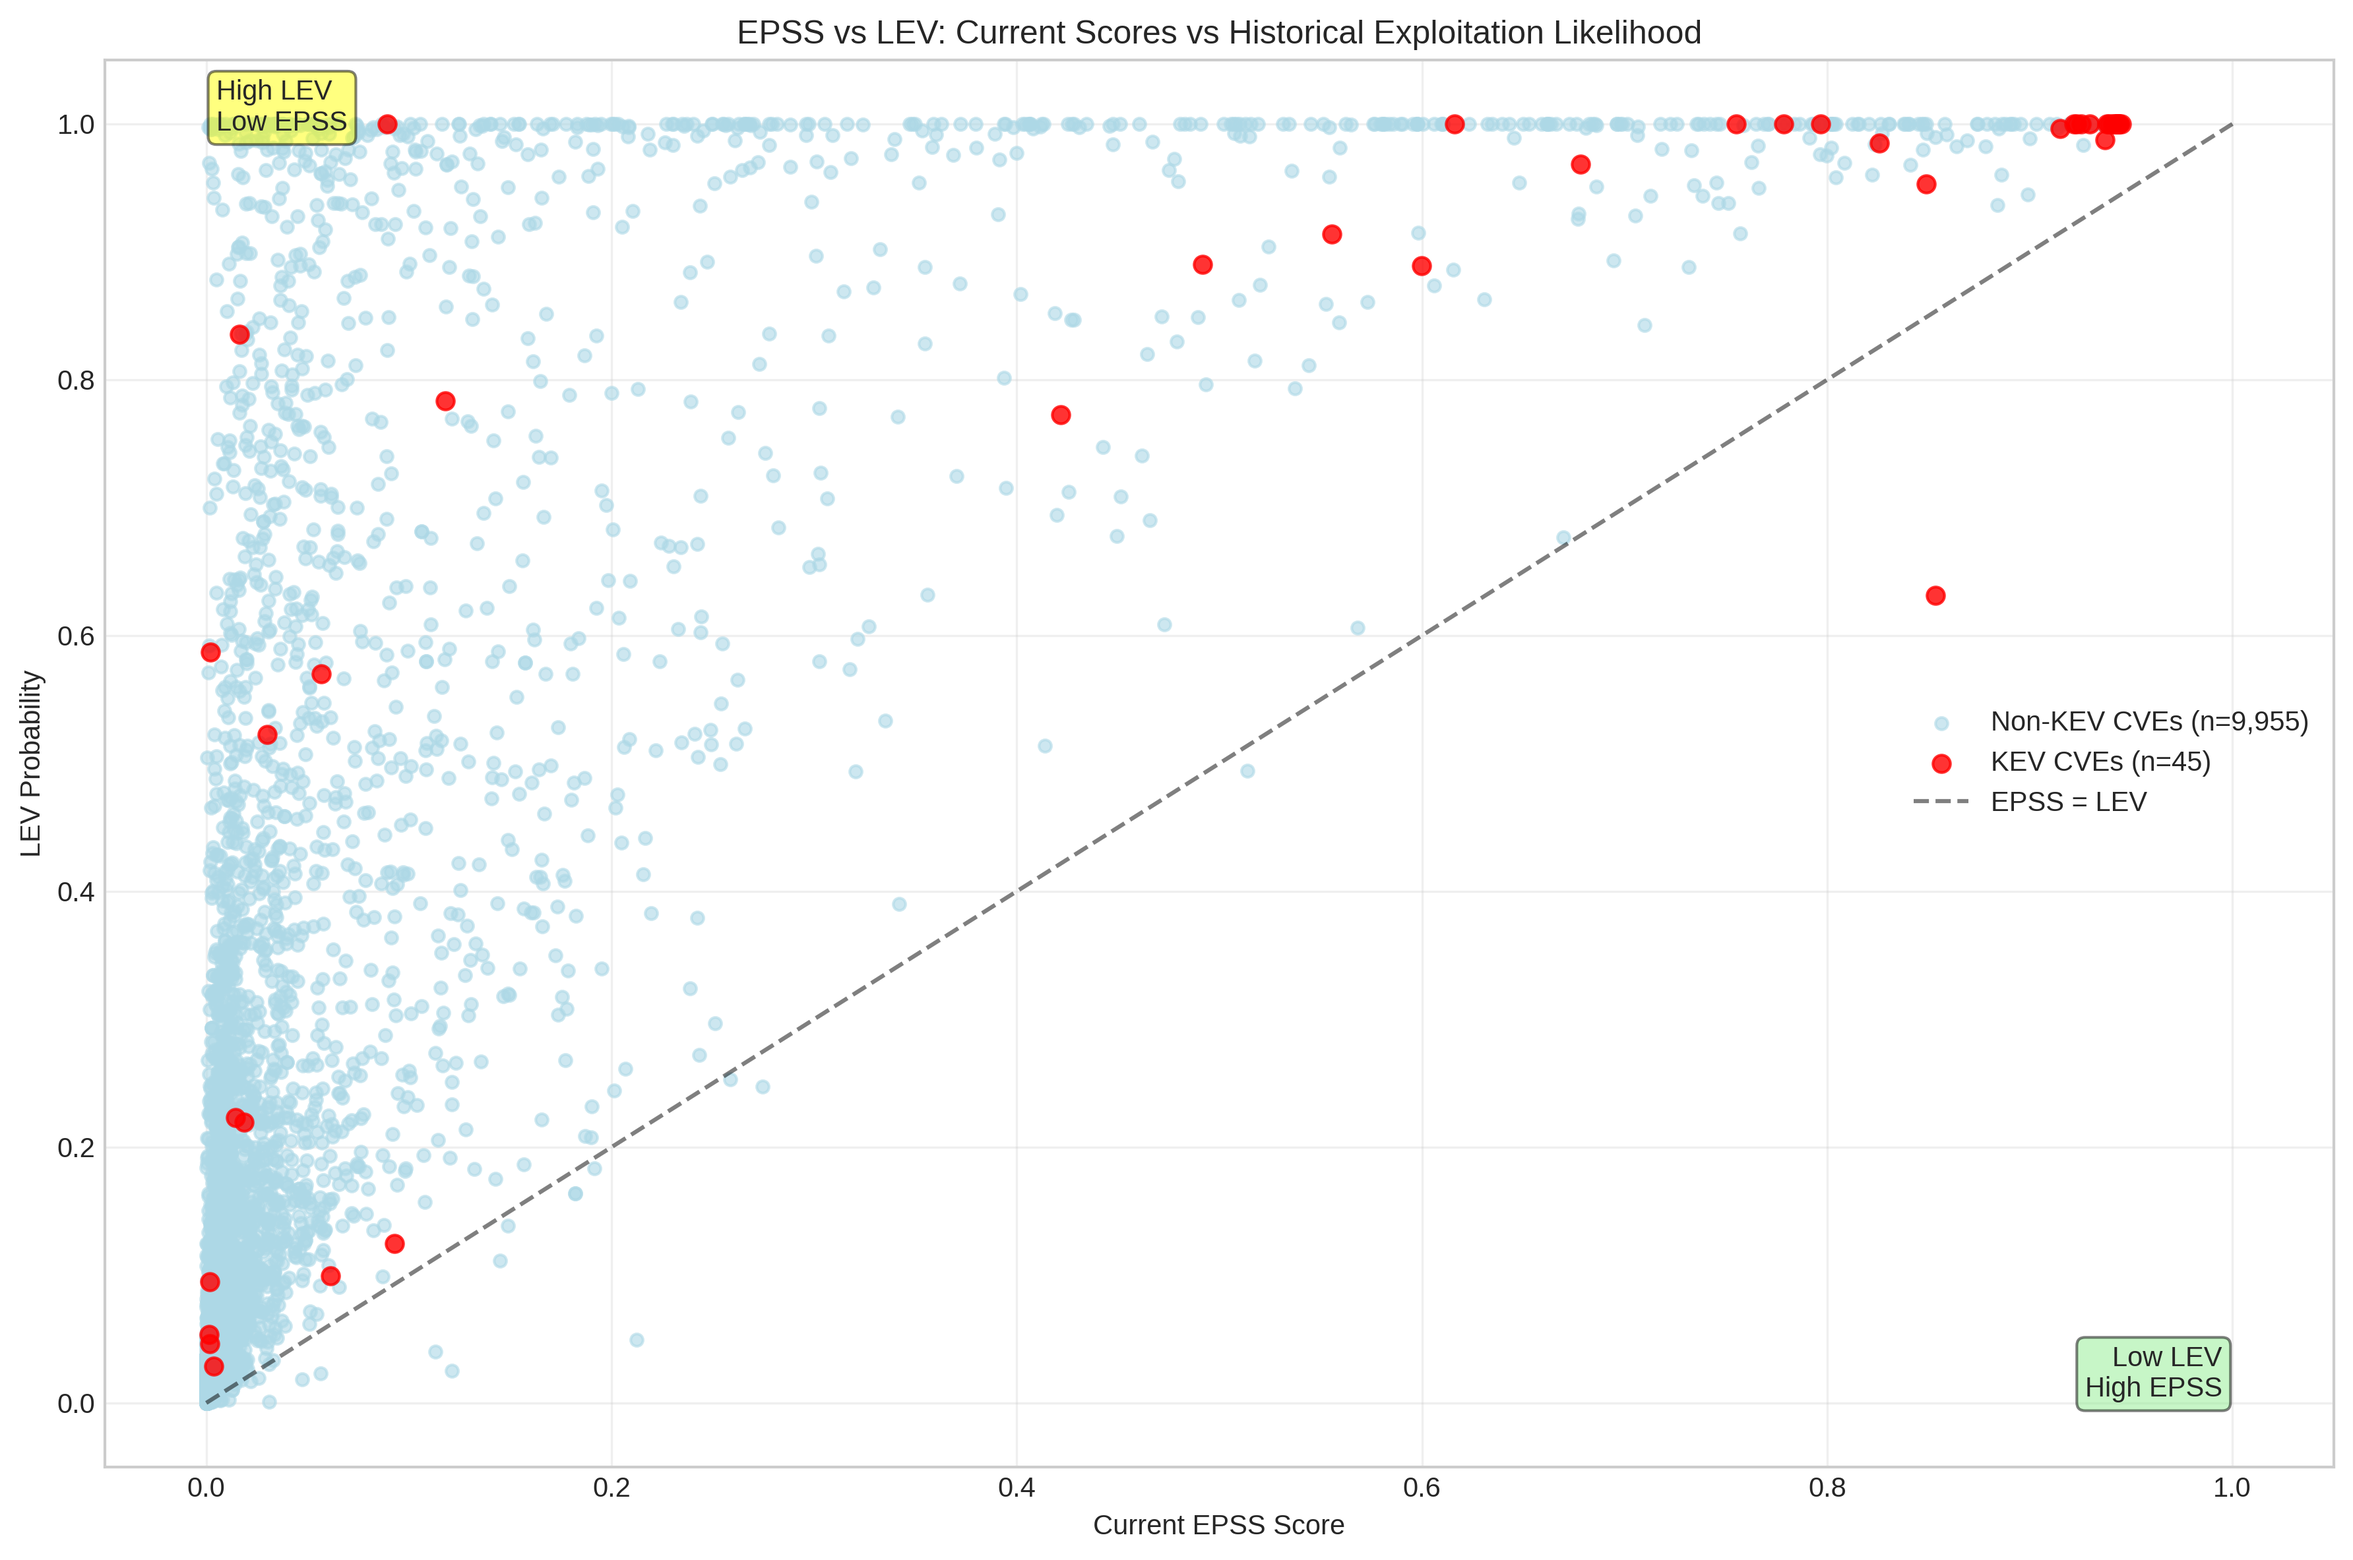
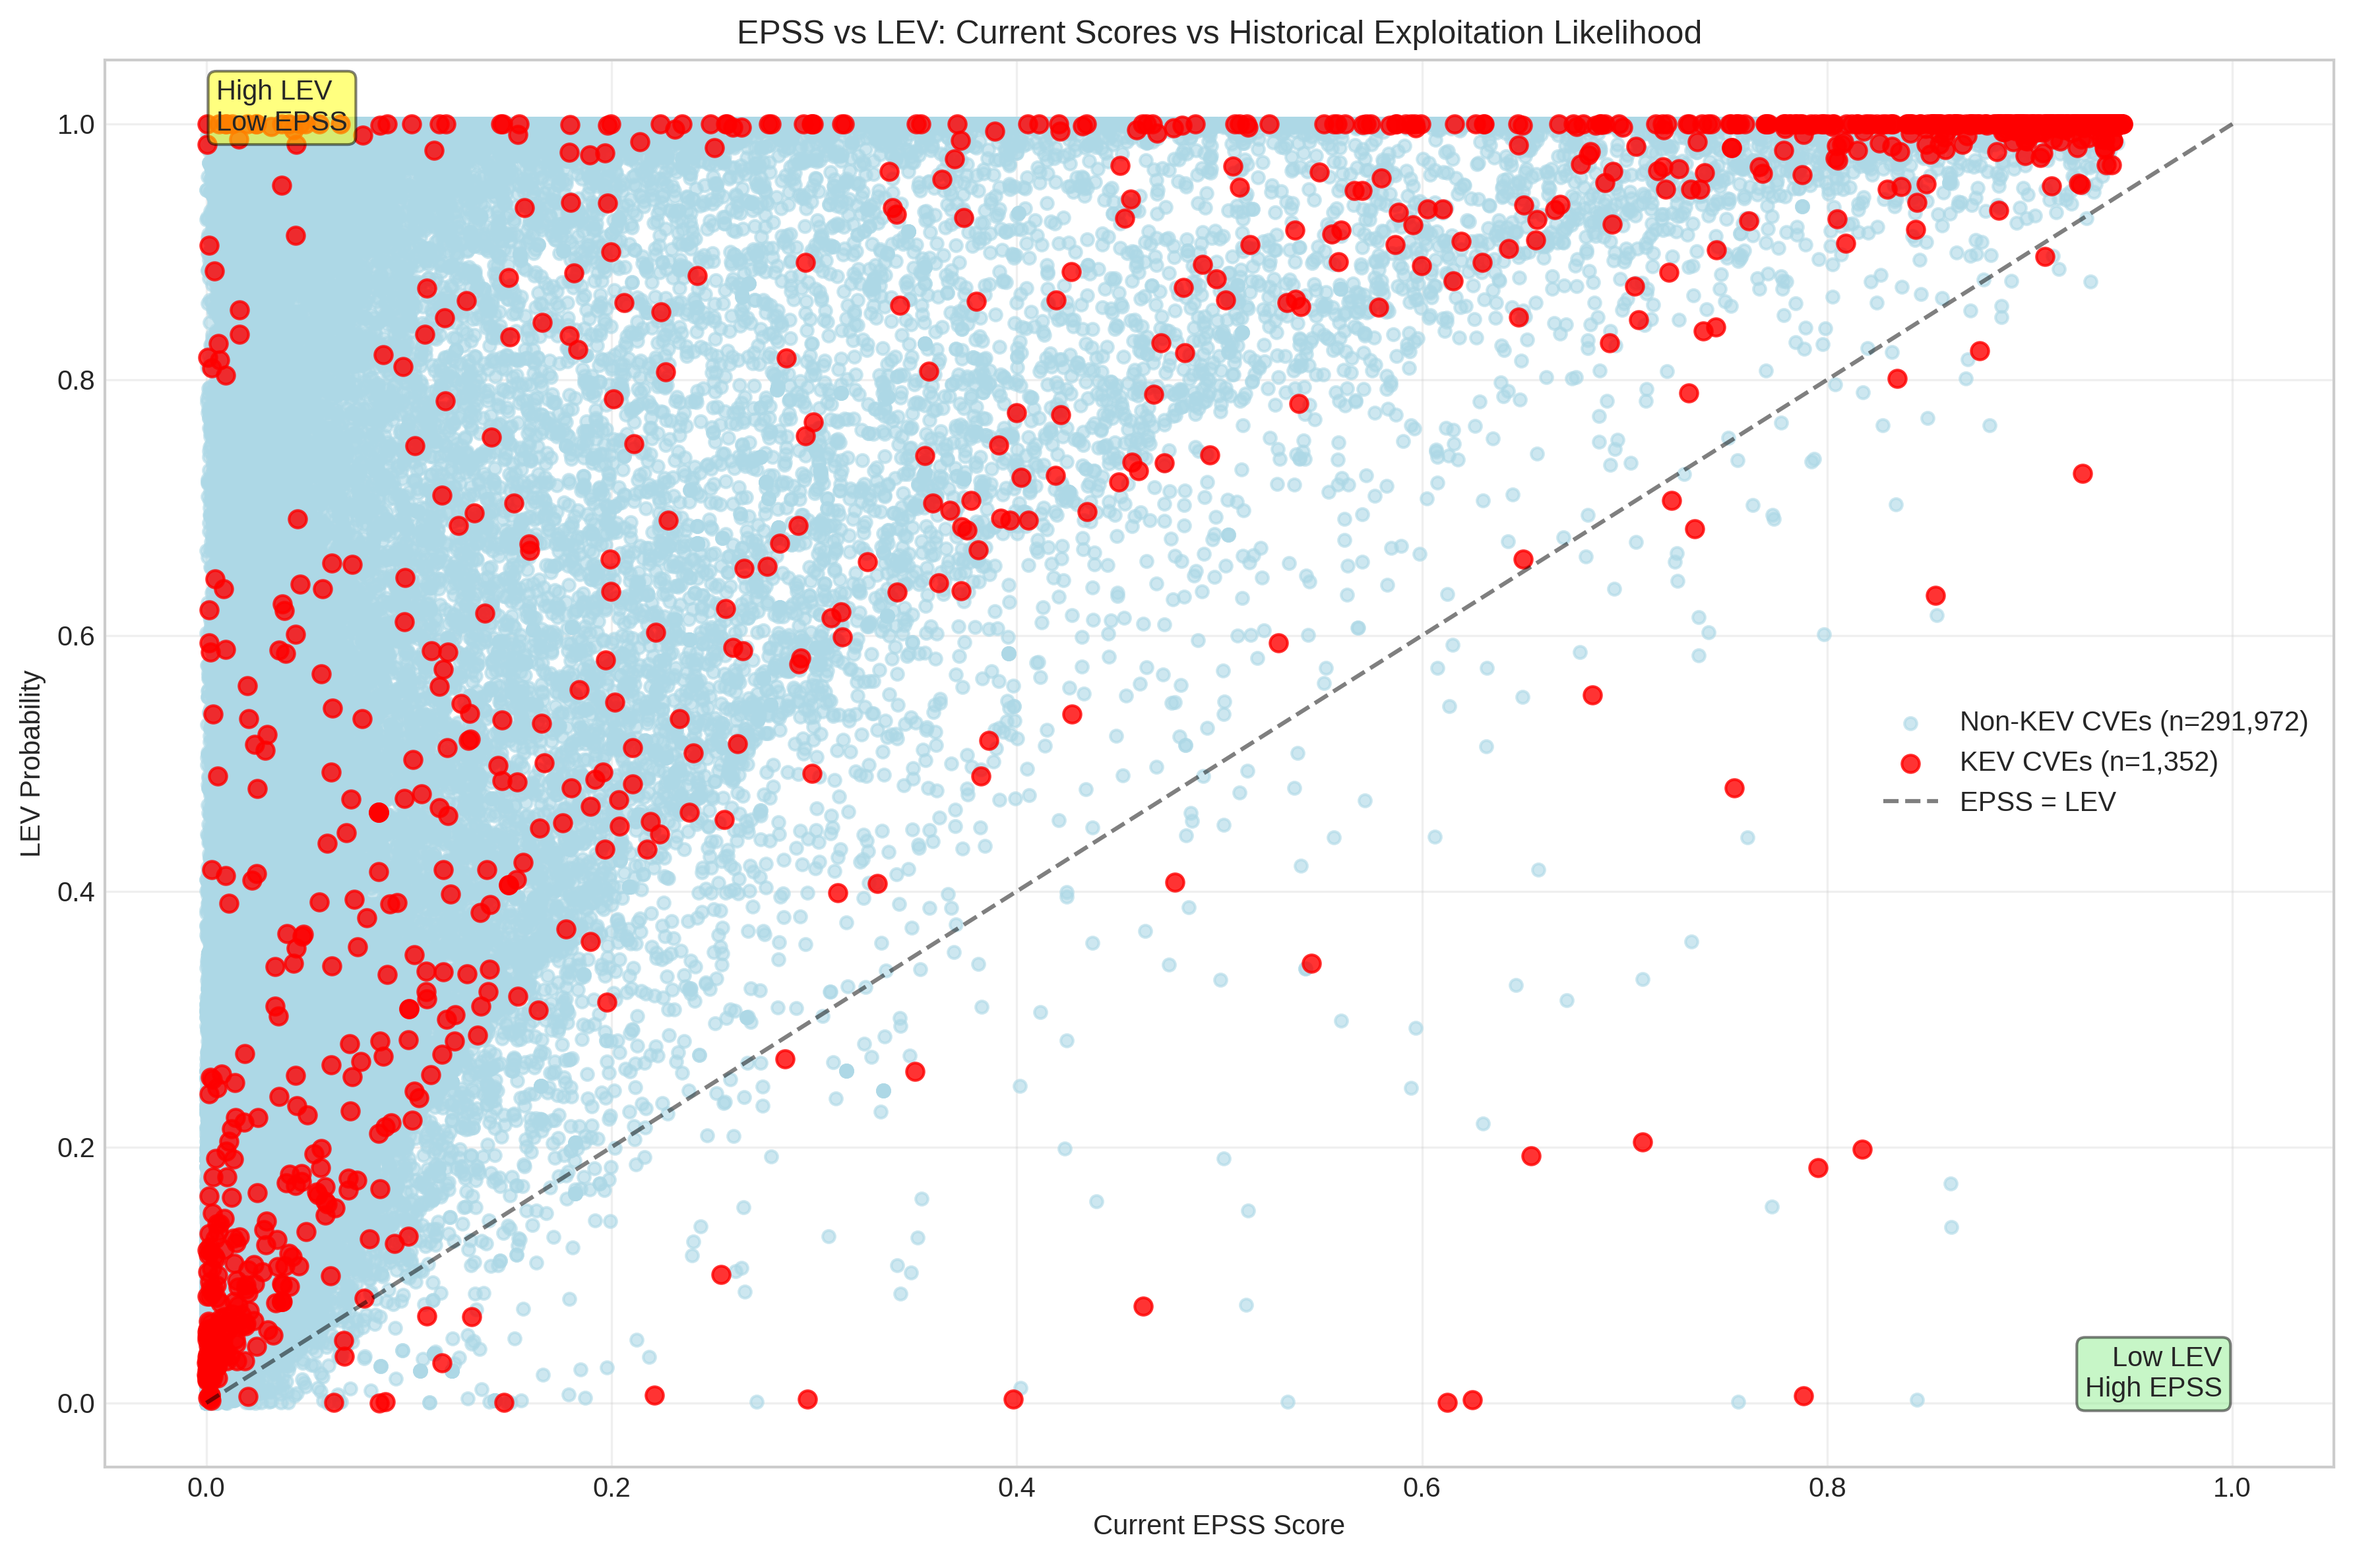
scatter don't sample

diff --git a/lev_analyzer.py b/lev_analyzer.py
@@ -58,19 +58,15 @@ class LEVAnalyzer:
         # Return simple markdown image reference
         return f"![{filename}]({filename}.png)\n\n"
     
-    def plot_epss_vs_lev_scatter(self, sample_size: int = 10000, figsize: tuple = (12, 8)):
+    def plot_epss_vs_lev_scatter(self, figsize: tuple = (12, 8)):
         """
         1. EPSS vs LEV scatter plot with KEV highlighting.
         
         Shows the relationship between current EPSS scores and LEV probabilities,
         with KEV CVEs highlighted in red.
         """
-        # Sample for visualization performance
-        if len(self.merged_df) > sample_size:
-            plot_df = self.merged_df.sample(n=sample_size, random_state=42)
-        else:
-            plot_df = self.merged_df.copy()
-        
+
+        plot_df = self.merged_df.copy()
         fig, ax = plt.subplots(figsize=figsize)
         
         # Plot non-KEV CVEs
@@ -519,6 +515,8 @@ This scatter plot reveals the relationship between current EPSS scores and LEV p
 """
                 elif filename == 'method_agreement_matrix':
                     report += f"""**Key Insights:**
+
+- HIGH EPSS: > 0.1, HIGH LEV: > 0.1
 - EPSS-LEV correlation: {stats['agreement']['epss_lev_correlation']:.3f}
 - CVEs identified by both methods (high agreement): {stats['agreement']['high_epss_and_high_lev']:,}
 - CVEs identified by either method (total coverage): {stats['agreement']['high_epss_or_high_lev']:,}
@@ -544,10 +542,7 @@ This scatter plot reveals the relationship between current EPSS scores and LEV p
 
 ## High-Risk CVE Analysis by Threshold
 
-### Summary Table
-
-| Threshold | EPSS CVEs | LEV CVEs | Composite CVEs | LEV KEV Recall |
-|-----------|-----------|----------|----------------|----------------|"""
+### Summary """
 
         for threshold in [0.1, 0.2, 0.5, 0.8]:
             epss_count = stats['high_risk_counts'][f'epss_{threshold}']
@@ -724,9 +719,9 @@ def example_usage():
     )
     
     # Generate individual plots if needed
-    fig1 = analyzer.plot_epss_vs_lev_scatter()
-    fig2 = analyzer.plot_lev_recall_curve()
-    fig3 = analyzer.plot_risk_quadrants()
+    #fig1 = analyzer.plot_epss_vs_lev_scatter()
+    #fig2 = analyzer.plot_lev_recall_curve()
+    #fig3 = analyzer.plot_risk_quadrants()
     
     # Generate comprehensive report with all plots and analysis
     stats = analyzer.create_comprehensive_report()

diff --git a/analysis/lev_analysis_plots/analysis_report.md b/analysis/lev_analysis_plots/analysis_report.md
@@ -1,6 +1,6 @@
 # LEV Analysis Comprehensive Report
 
-**Generated on:** 2025-06-02 22:10:57
+**Generated on:** 2025-06-03 08:54:29
 
 ## Executive Summary
 
@@ -52,6 +52,7 @@ This scatter plot reveals the relationship between current EPSS scores and LEV p
 ![method_agreement_matrix](method_agreement_matrix.png)
 
 **Key Insights:**
+- HIGH EPSS: > 0.1, HIGH LEV: > 0.1
 - EPSS-LEV correlation: 0.695
 - CVEs identified by both methods (high agreement): 20,629
 - CVEs identified by either method (total coverage): 79,604
@@ -78,10 +79,9 @@ This scatter plot reveals the relationship between current EPSS scores and LEV p
 
 ## High-Risk CVE Analysis by Threshold
 
-### Summary Table
+### Summary 
 
-| Threshold | EPSS CVEs | LEV CVEs | Composite CVEs | LEV KEV Recall |
-|-----------|-----------|----------|----------------|----------------|
+
 #### Threshold ≥ 0.1
 
 - **EPSS High-Risk CVEs:** 20,714 (7.06% of total)
@@ -244,6 +244,6 @@ The analysis demonstrates that:
 
 ---
 
-**Report Generation Completed:** 2025-06-02 22:11:02
+**Report Generation Completed:** 2025-06-03 08:54:36
 
 *This report was generated using the LEV Analysis and Visualization Suite. For questions or additional analysis requests, please refer to the methodology documentation.*
